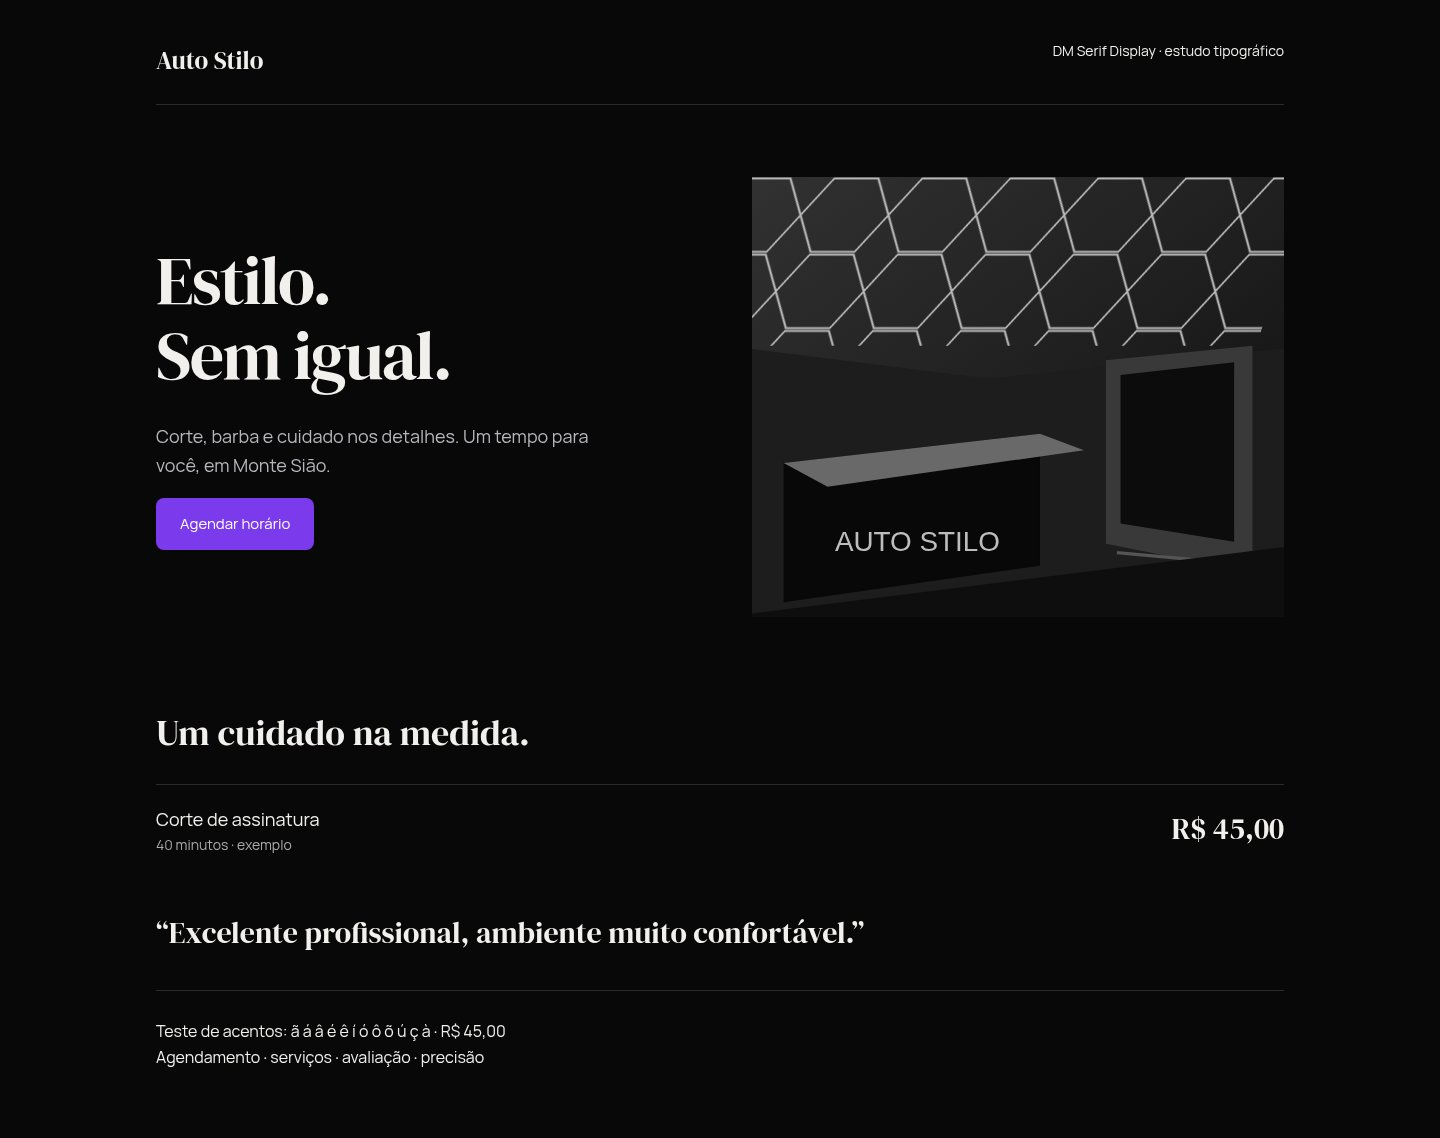
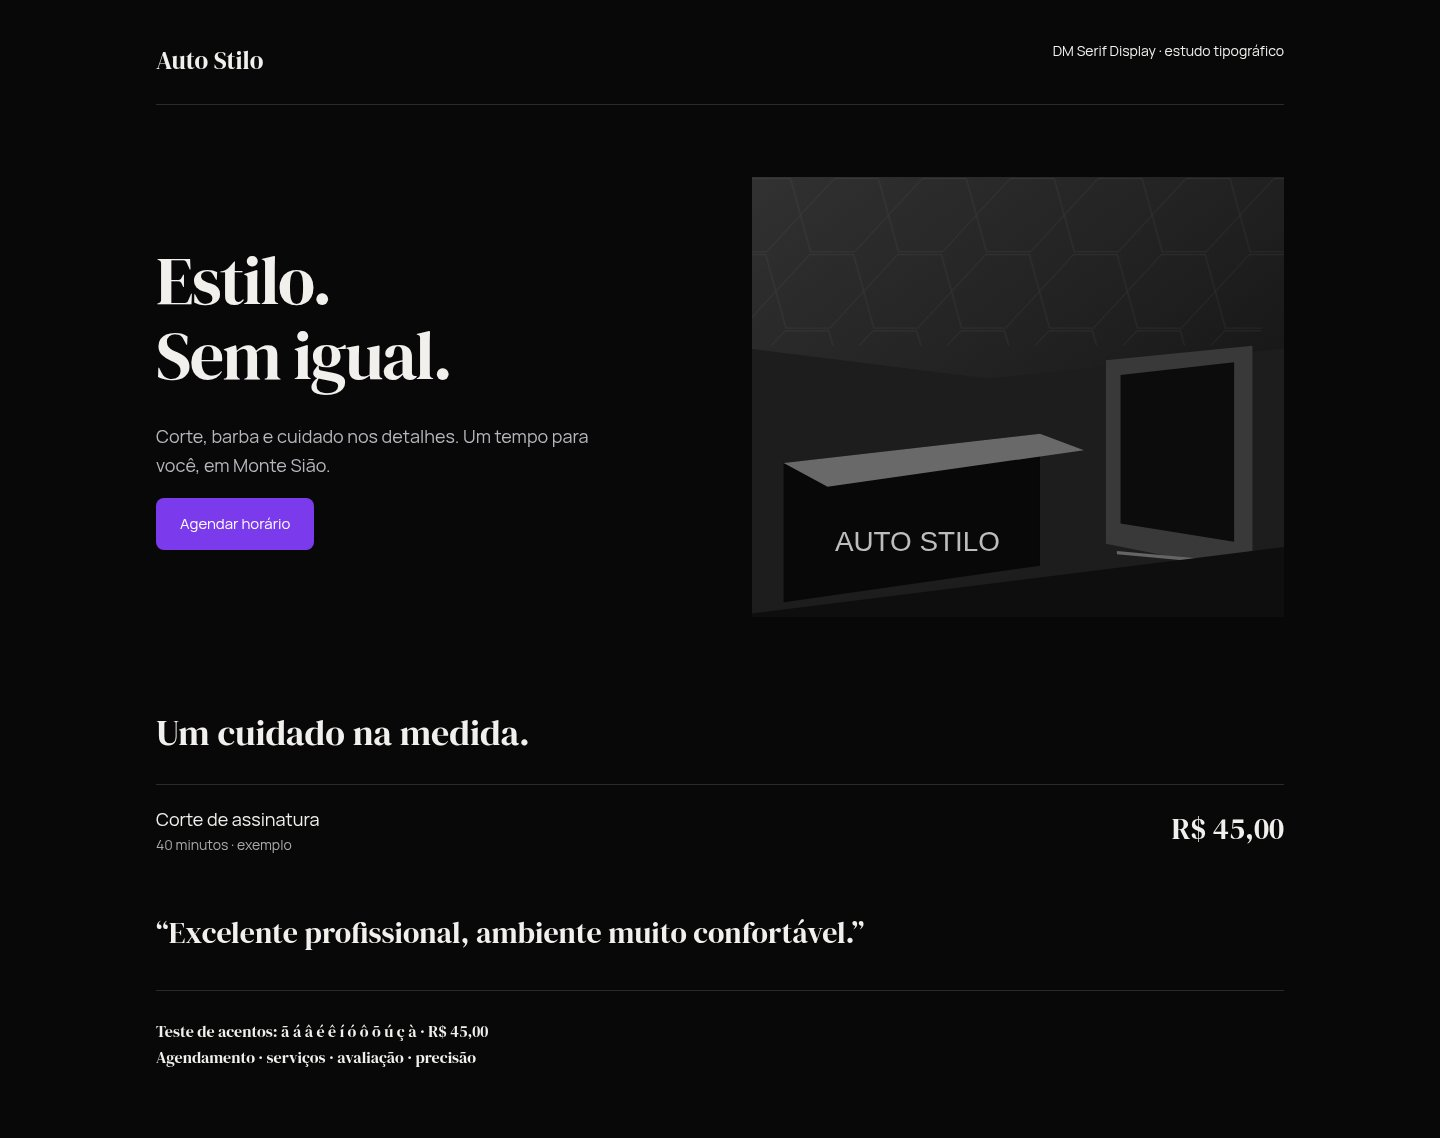
test: validar refinamento minimalista e registrar comparações visuais

Changed region(s): [[0.5312, 0.1538, 0.875, 0.3076], [0.0938, 0.8919, 0.3438, 0.9534]]

diff --git a/src/styles/landing.css b/src/styles/landing.css
@@ -1204,3 +1204,7 @@
 .booking-live .rounded-full:where(button, a, input, select) {
   border-radius: 8px;
 }
+
+.site-nav a{min-height:44px;display:inline-flex;align-items:center}
+/* Secondary service/contact copy remains body-sized on mobile as well. */
+.service-row p,.contact-section p{font-size:16px}

diff --git a/src/app/globals.css b/src/app/globals.css
@@ -159,3 +159,6 @@ h3 {
     padding-bottom: 96px;
   }
 }
+
+/* Icon-only controls keep the same 44px touch area as text buttons. */
+button{min-width:44px}

diff --git a/docs/DESIGN-REVIEW.md b/docs/DESIGN-REVIEW.md
@@ -23,3 +23,50 @@ Hero reduzido a um título, frase, imagem e dois destinos já existentes. Removi
 Sidebar e abas móveis preservadas. Superfícies sem sombras ou contornos coloridos, raios discretos, títulos de página em Fraunces e interface em Manrope. Métricas usam serif com cor neutra; gráfico conserva um só acento, sem gradientes. Ícones de navegação/ações são funcionais e foram mantidos; adornos dos cartões de métricas foram reduzidos. Login mantém os mesmos campos, avisos e autenticação, mas sem o círculo decorativo nem destaque itálico/colorido no título.
 
 Nota e número de avaliações são exibidos diretamente dos mesmos dados, sem contagem transitória que pudesse sugerir uma avaliação diferente. Números animados permanecem no painel, onde comunicam a atualização das métricas.
+
+## Preservação e cobertura
+Os caminhos das rotas, hooks de agendamento/hold, dados demo/seed, bibliotecas Supabase e ações/API foram preservados; os arquivos protegidos listados no relatório de escopo foram comparados com a base e permanecem sem diferenças. Scripts de build/Cloudflare, wrangler, headers e DEPLOY-CLOUDFLARE.md também não mudaram. Só foram removidos os dois pacotes de fontes locais que deixaram de ser usados. `cobertura-e-escopo.json` registra essa verificação. FontTools conferiu todos os glifos `ã á â é ê í ó ô õ ú ç à R$` nas três faces utilizadas, sem ausências; os espécimes mostram a comparação visual.
+
+## Escala final
+Hero: Fraunces 400, até 68px no desktop e 42px no celular; títulos de seção 46/32px. Formulários de agendamento usam títulos 48/38px. No painel, títulos de página 32/28px para preservar densidade de trabalho, com números de destaque em serif e os demais títulos/controles em sans. Corpo 17–18px no desktop e 16px no celular; rótulos/legendas de 12–14px. Não há script nem fonte condensada sendo carregada.
+
+## Capturas equivalentes
+
+| Tela | 390 px | 1440 px |
+|---|---|---|
+| landing | [Antes](design-review/antes/landing-390.jpg) · [Depois](design-review/depois/landing-390.jpg) | [Antes](design-review/antes/landing-1440.jpg) · [Depois](design-review/depois/landing-1440.jpg) |
+| agendar | [Antes](design-review/antes/agendar-390.jpg) · [Depois](design-review/depois/agendar-390.jpg) | [Antes](design-review/antes/agendar-1440.jpg) · [Depois](design-review/depois/agendar-1440.jpg) |
+| meu-agendamento | [Antes](design-review/antes/meu-agendamento-390.jpg) · [Depois](design-review/depois/meu-agendamento-390.jpg) | [Antes](design-review/antes/meu-agendamento-1440.jpg) · [Depois](design-review/depois/meu-agendamento-1440.jpg) |
+
+As capturas de página inteira foram feitas depois de rolar por todo o conteúdo; os arquivos `-inicio.jpg` registram a primeira dobra. O painel usa fixtures locais na comparação. Não representam sessões ou clientes reais.
+
+A auditoria de acessibilidade revelou campos legados sem nome acessível em agenda, horários da equipe, filtros financeiros e configurações. Foram acrescentados apenas aria-labels descritivos aos campos existentes, sem alterar valor, validação, eventos ou ações. Também foram garantidos alvos de pelo menos 44px nos botões com ícone.
+
+## QA de regressão
+- Types, lint, build e tokens:check passaram nos dois repositórios; build:cf passou no dono. Os scripts de deploy não foram alterados.
+- Painel: 35 combinações (7 telas × 360/390/768/1024/1440), sem erro JS nem overflow. Inclui verificação de fonte Fraunces nos títulos de página. Fixture local, sem operações em banco real.
+- Site: fluxo demo completo em celular/desktop, consulta/cancelamento simulado, navegação por teclado e reduced-motion pelos testes já existentes; resultados desta rodada em design-review/qa-cliente.json.
+- Avaliações: as cinco citações continuam acessíveis manualmente em 390/1440, uma por vez; botões e teclado verificados, sem erro JS nem overflow.
+- Axe WCAG A/AA: zero violações automáticas nas três páginas públicas, login e sete telas protegidas verificadas. Itens inconclusivos (como conteúdo externo do mapa) e revisão por leitor de tela continuam exigindo julgamento humano; não é certificação de acessibilidade.
+- Glyph coverage: nenhum caractere português ou R$ ausente em Fraunces 400/500 e Manrope 400.
+
+## O que mantive e por quê
+Mantive navegação, rotas, formulários, validações, agendamento/hold, contratos de dados, demo/seed, SEO, marca d’água e configuração Cloudflare porque já estavam corretos e estão fora do escopo visual. Mantive ícones que identificam ações ou destinos; removi adornos. Mantive as ilustrações de demonstração existentes, com tratamento neutro e referência aos LEDs muito reduzida; não inventei fotografias ou dados reais.
+
+As quatro etapas têm commits locais; nenhum push intermediário foi feito. O envio dos dois repositórios ocorre somente depois da verificação final, pelo mesmo fluxo Git/Cloudflare existente. Não fiz deploy manual. Não há decisão bloqueante para este refinamento; fotos e conteúdo comercial reais podem ser atualizados em uma rodada própria.
+
+## Fluidez — build de produção local, CPU 4×
+
+| Viewport | Mediana ms | p95 ms | Máximo ms | CLS |
+|---|---:|---:|---:|---:|
+| 360×800 | 16.7 | 16.7 | 16.8 | 0.0000 |
+| 390×844 | 16.7 | 16.7 | 16.8 | 0.0000 |
+| 768×1024 | 16.7 | 16.7 | 16.8 | 0.0000 |
+| 1024×768 | 16.7 | 16.7 | 16.8 | 0.0000 |
+| 1440×900 | 16.7 | 16.8 | 16.8 | 0.0000 |
+| 844×390 | 16.7 | 16.8 | 16.8 | 0.0000 |
+| 800×360 | 16.7 | 16.7 | 16.8 | 0.0000 |
+
+A mediana permaneceu em 16,7ms, sem piorar em relação à medição anterior; p95 até 16,8ms e máximo 16,8ms nesta execução. Nenhum frame acima de 50ms e CLS zero nos sete formatos. As fontes e imagens estão no build, servido por Wrangler local; não houve throttling de rede. Resultados desta VM com as ilustrações atuais, não uma garantia de desempenho em qualquer dispositivo/rede. A galeria não é mais pinned e há apenas um loop contínuo visível por tela, no hero, pausado fora da viewport.
+
+`npm audit` não reportou vulnerabilidades conhecidas nesta rodada. O arquivo local de variáveis sintéticas usado nos testes foi removido e o build do painel foi repetido sem a fixture, preservando as configurações reais do projeto.
